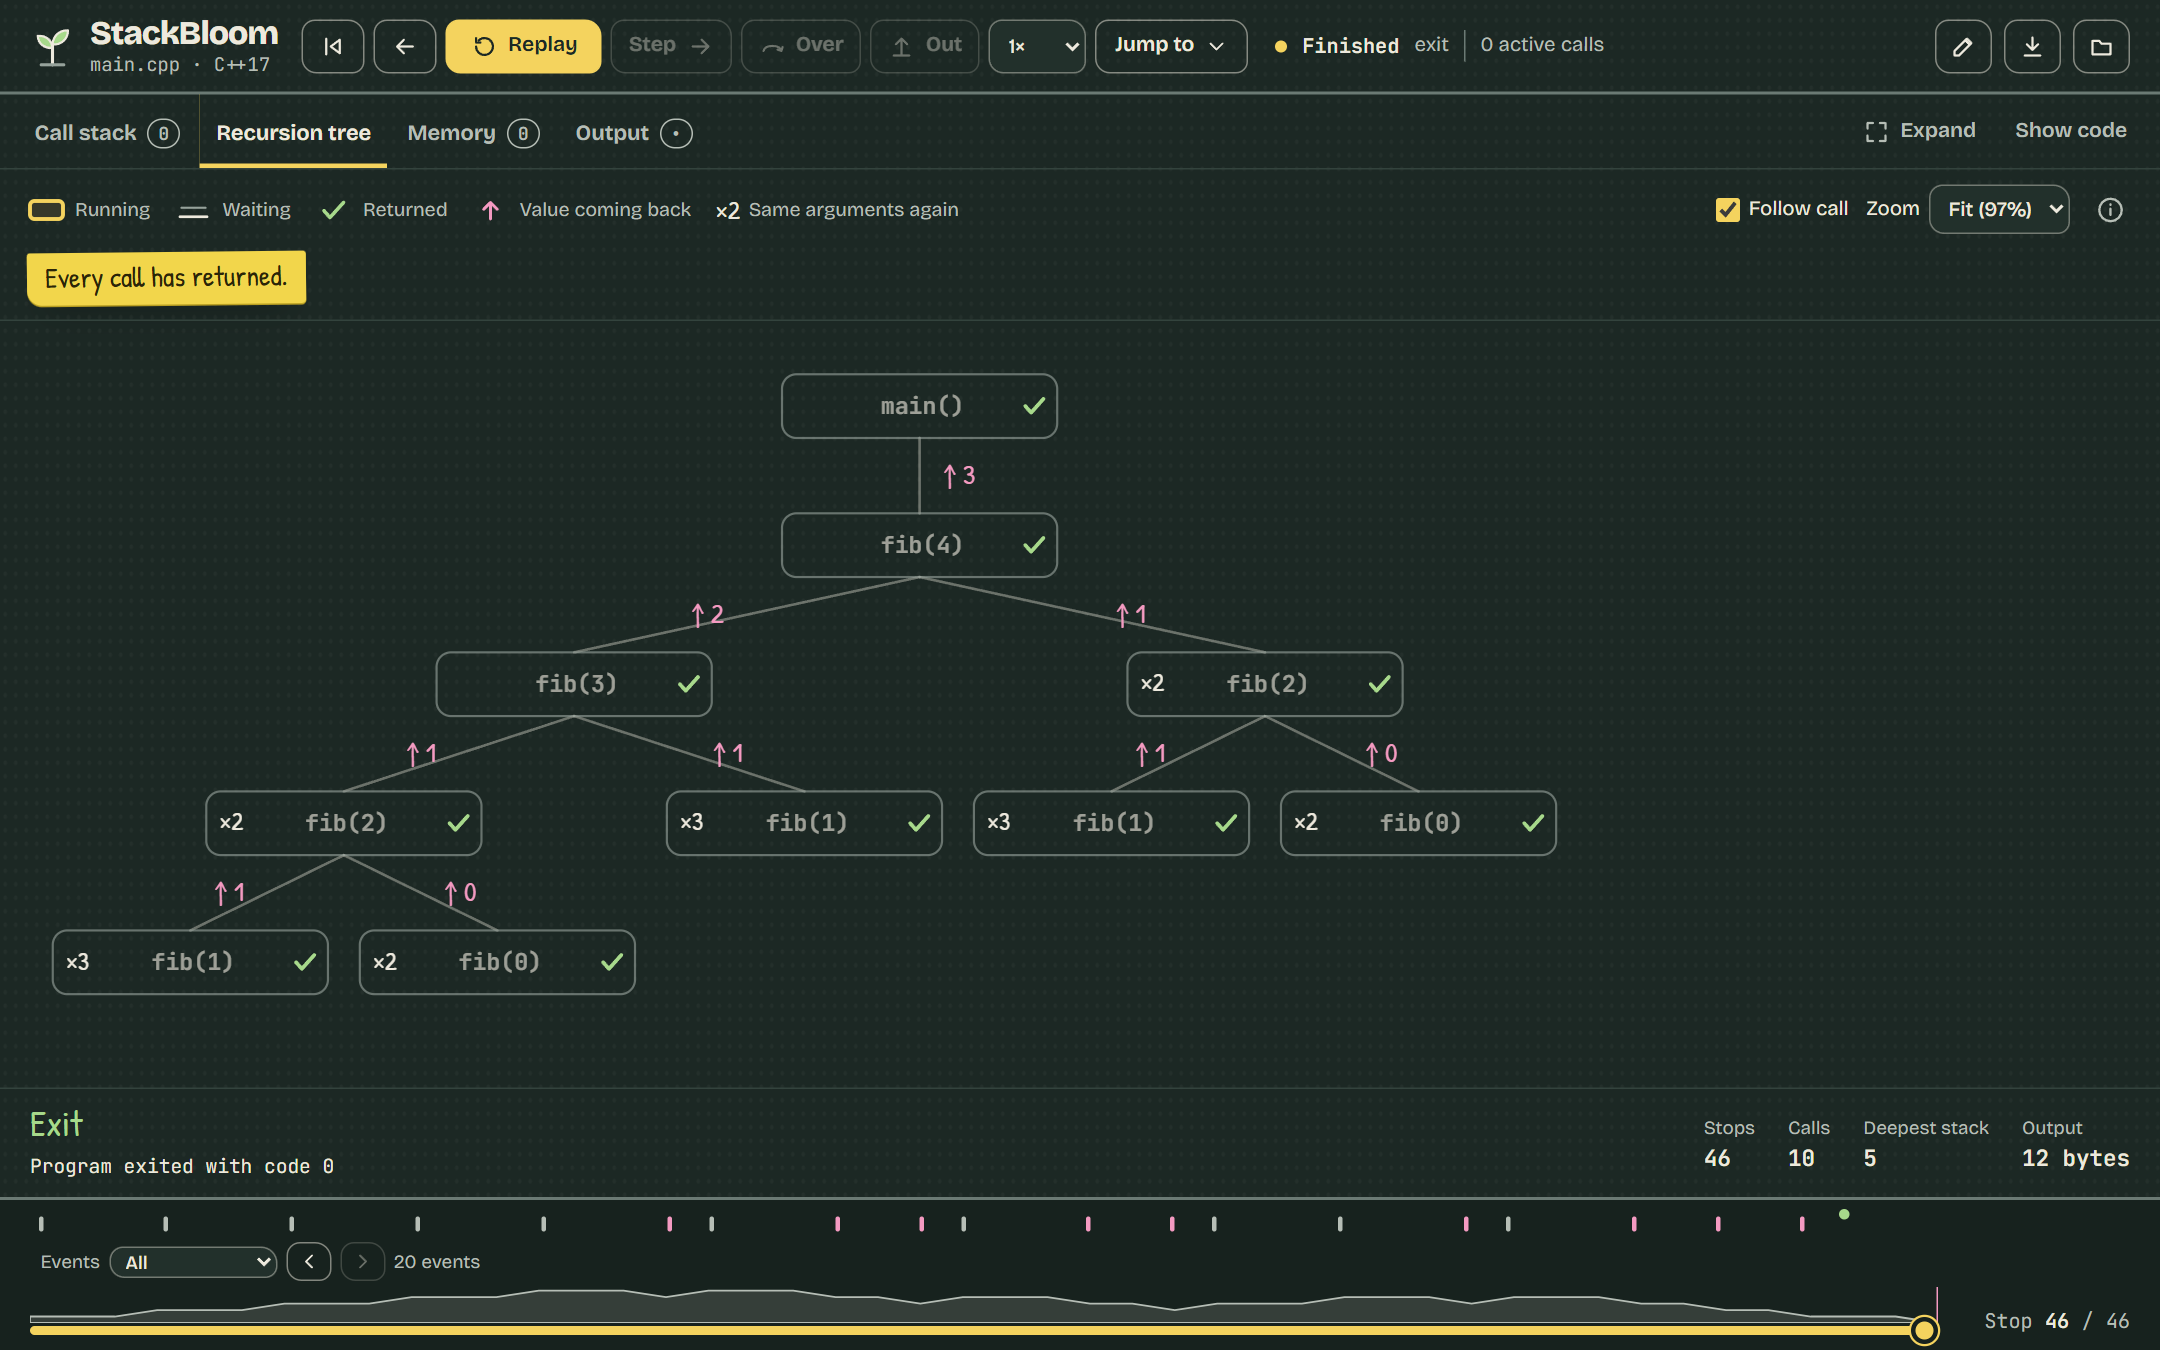
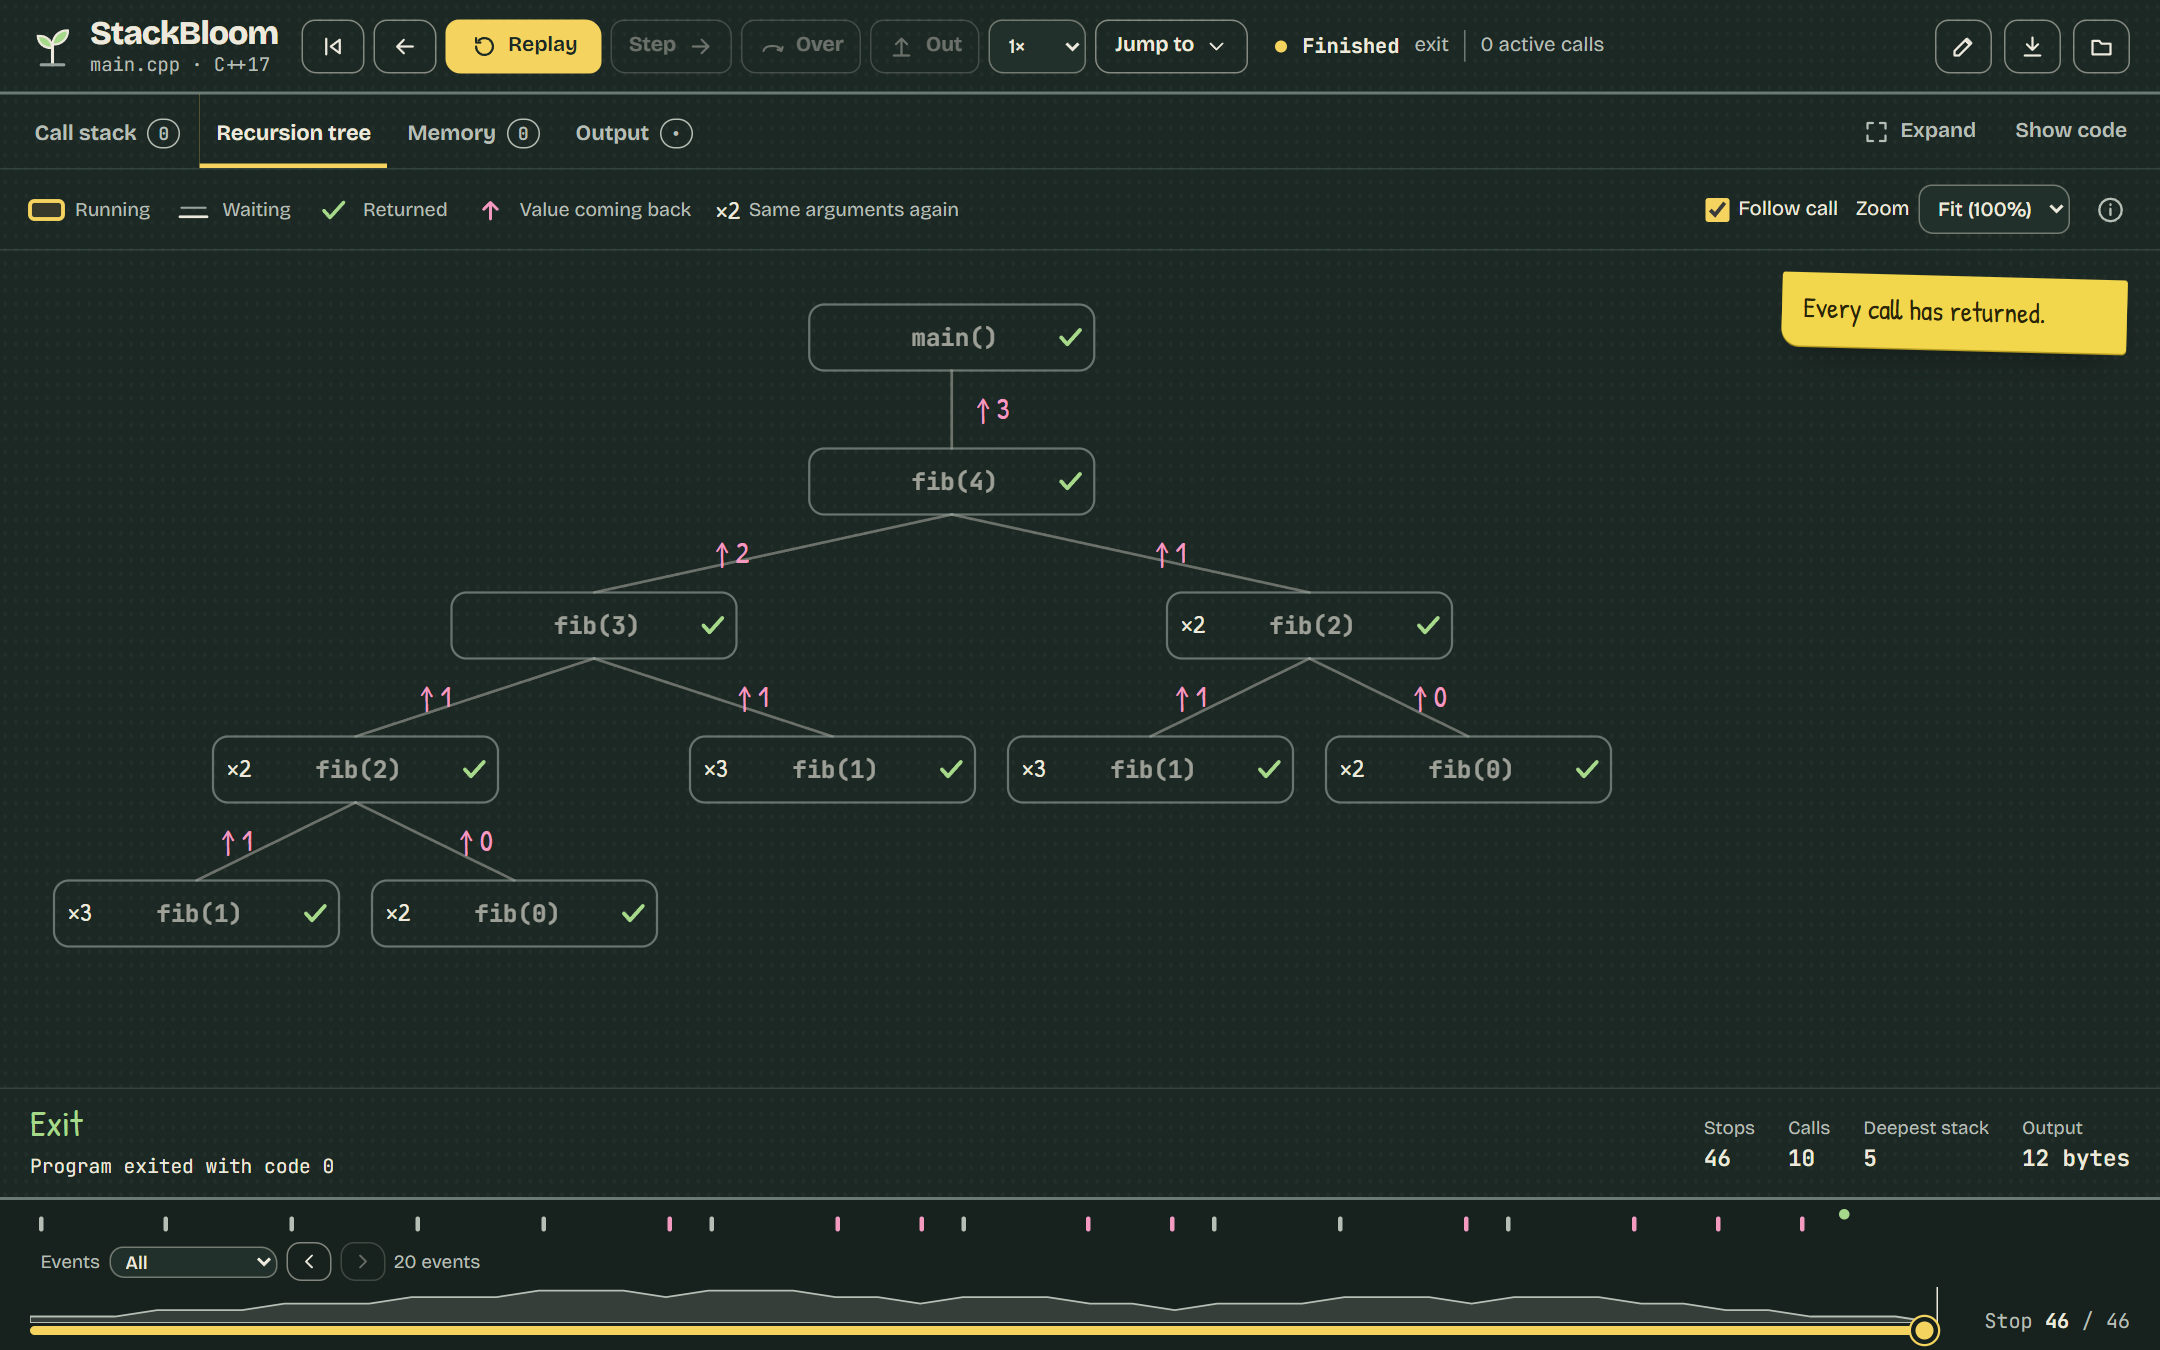
Pin the step's sticky note to the tree board's top-right corner
Like the chosen sample: a tilted sticky note in the board's upper right,
not a strip above the tree. Clicks pass through to the tree, and Follow
call treats the corner as covered so the running call never parks under
it. On phones the note stays inline above the board.

diff --git a/web/src/CallTree.tsx b/web/src/CallTree.tsx
@@ -28,6 +28,8 @@ const REPEAT_ROOM = 22;
 const RUNNING_ROOM = 96;
 // Room taken by the graph overview in the canvas corner, plus a margin.
 const OVERVIEW = {width: 180, height: 150};
+// Room the step's sticky note takes in the canvas's top-right corner, plus a margin.
+const NOTE = {width: 270, height: 110};
 
 function truncate(text: string, length: number) {
   return text.length > length ? text.slice(0, length - 2) + '…' : text;
@@ -144,8 +146,11 @@ export function CallTree({trace, index, onSelect, selectedCall}: {trace: Trace; 
     const right = canvas.scrollLeft + canvas.clientWidth, bottom = canvas.scrollTop + canvas.clientHeight;
     // The bottom-right corner belongs to the overview, so a call parked under it counts as out of view.
     const underOverview = x > right - OVERVIEW.width && y > bottom - OVERVIEW.height;
+    // So does the top-right corner, where the step's sticky note is pinned (phones keep it above the board).
+    const pinned = canvas.clientWidth > 480;
+    const underNote = pinned && x + dims.width * zoom / 2 > right - NOTE.width && y < canvas.scrollTop + NOTE.height;
     const inView = x > canvas.scrollLeft + 40 && x < right - 40
-      && y > canvas.scrollTop && y < bottom - 60 && !underOverview;
+      && y > canvas.scrollTop && y < bottom - 60 && !underOverview && !underNote;
     if (!inView) canvas.scrollTo({left: x - canvas.clientWidth / 2, top: y - canvas.clientHeight / 3});
   }, [index, zoom, compact, active?.id, follow]);
 
@@ -164,9 +169,11 @@ export function CallTree({trace, index, onSelect, selectedCall}: {trace: Trace; 
           call to revisit its last stop. Large trees switch to compact nodes and follow the running call.</InfoTip>
       </div>
     </div>
-    {note && <p className="step-note">{note}</p>}
     {history.approximate && <p className="note">Legacy trace: call boundaries are approximate. Run the code again for invocation tracking.</p>}
-    <div className="graph-stage"><div className="tree-canvas" ref={ref} tabIndex={0} aria-label="Scrollable call tree">
+    <div className="graph-stage">
+    {/* Pinned to the board's top-right corner like a sticky note; clicks pass through to the tree. */}
+    {note && <p className="step-note">{note}</p>}
+    <div className="tree-canvas" ref={ref} tabIndex={0} aria-label="Scrollable call tree">
       {visible.length ? <svg width={width * zoom} height={height * zoom} viewBox={`0 0 ${width} ${height}`} role="group" aria-label="Function invocation tree">
         {visible.filter(node => node.parent && positions.has(node.parent)).map(node => {
           const from = positions.get(node.parent!)!, to = positions.get(node.id)!;

diff --git a/web/src/style.css b/web/src/style.css
@@ -212,10 +212,12 @@ input[type=checkbox] {accent-color: var(--run); width: 16px; height: 16px; margi
 }
 @starting-style {.info-tip[open] .info-body {opacity: 0; transform: rotate(-1deg) scale(.95);}}
 .info-body code {font-size: 12.5px;}
-/* The note on the recursion tree says, in words, what the last step did. */
+/* The note on the recursion tree says, in words, what the last step did. It is pinned to the
+   board's top-right corner, tilted like a real sticky note; clicks pass through to the tree. */
 .step-note {
-  align-self: flex-start; margin: 2px 18px 10px; padding: 5px 12px 6px; max-width: calc(100% - 36px);
-  font: 19px/1.25 var(--font-hand); border-radius: 2px 2px 3px 10px; transform: rotate(-.6deg);
+  position: absolute; top: 18px; right: 22px; z-index: 4; margin: 0; width: min(230px, 40%);
+  padding: 12px 14px 13px; font: 19px/1.25 var(--font-hand); border-radius: 2px 2px 3px 12px;
+  transform: rotate(1.5deg); pointer-events: none;
 }
 
 /* ---------- editor screen ---------- */
@@ -652,7 +654,9 @@ code.unset {color: var(--ink-faint); font-style: italic;}
   .tree-legend {display: none;}
   .tree-controls {padding: 8px 12px; flex-wrap: nowrap;}
   .tree-controls .panel-title-actions {gap: 10px; margin-left: auto;}
-  .step-note {margin: 0 12px 8px;}
+  /* A pinned note would cover a phone-width tree: it sits above the board instead. */
+  .step-note {position: static; width: auto; align-self: flex-start; margin: 0 12px 8px; padding: 5px 12px 6px; transform: rotate(-.6deg);}
+  .graph-stage {padding-top: 2px;}
   .call-crumbs {max-width: calc(100% - 28px);}
   .graph-overview, .graph-overview-toggle {display: none;}
   .trace-view .workspace.code-hidden {grid-template-rows: 650px;}

diff --git a/DESIGN.md b/DESIGN.md
@@ -329,7 +329,7 @@ The tree and the stack write state as marks:
 - **Legends:** legends draw the real marks (the same strokes, ticks and hand lettering) instead of colour swatches.
 
 ### Sticky notes
-Yellow paper, rotated -0.6° to -1°, with the sticky paper shadow. The step note narrates the last step in Patrick Hand at 19px. Info tips open as 330px notes from a 30px round trigger and scale in from the trigger corner. The editor's run explainer is a note with a 24px hand title.
+Yellow paper with the sticky paper shadow. The step note narrates the last step in Patrick Hand at 19px; it is pinned to the tree board's top-right corner (230px wide, tilted 1.5°), lets clicks pass through to the tree, and Follow call treats that corner as covered. On phones it sits inline above the board, tilted -0.6°. Info tips open as 330px notes from a 30px round trigger and scale in from the trigger corner. The editor's run explainer is a note with a 24px hand title.
 
 ### Chalk tray
 The sunk strip along the bottom holds the event strip and the scrubber. Event marks use law colours by kind: ink-soft ticks for steps, ret ticks for returns, ptr diamonds for memory, done dots for output, and taller bad ticks for errors. Below them sit a depth sparkline in ink and a range input with an 18px run thumb.
